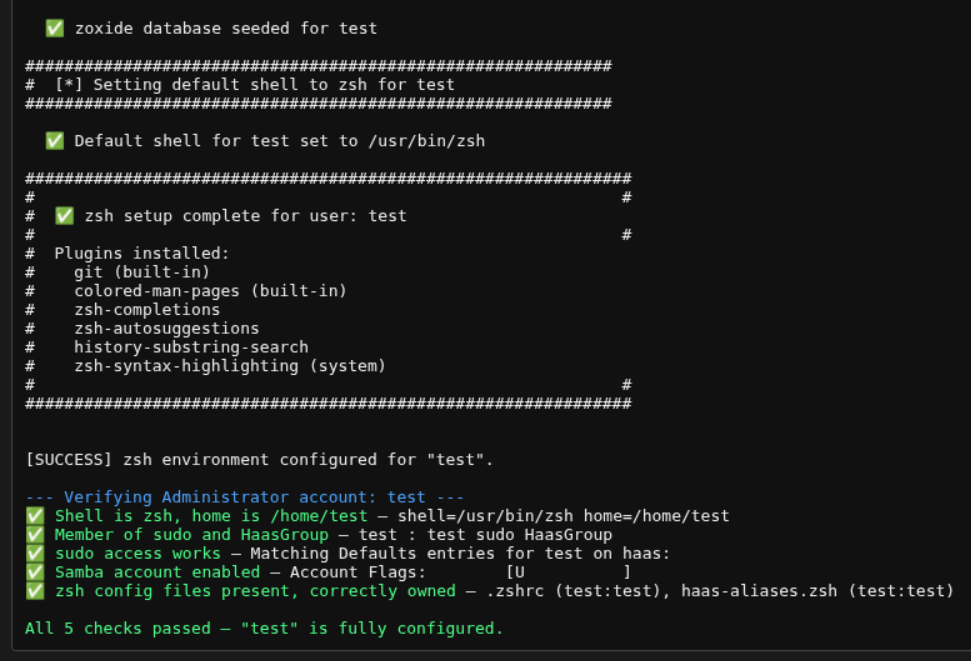
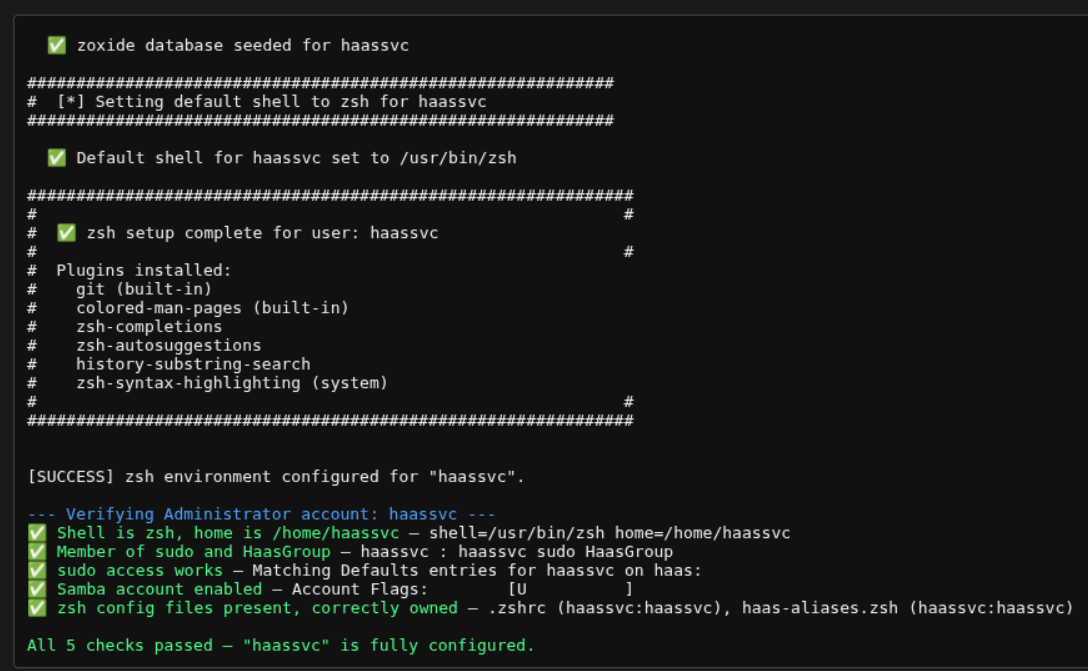
GIt Title: samba.md: Added images

diff --git a/docs/manage_the_appliance/samba.md b/docs/manage_the_appliance/samba.md
@@ -144,6 +144,12 @@ that line.
 net use * \\192.168.10.141\st30 /user:jdoe * /persistent:yes
 ```
 
+----------------------------------------------------------------
+
+![screenshot](./img/samba-drive-mapping.png){ width="500"}
+
+----------------------------------------------------------------
+
 Two details are deliberate:
 
 - The `*` in place of the password makes `net use` prompt for it
@@ -343,11 +349,17 @@ by hand.
 
 ----------------------------------------------------------------
 
-![screenshot](./img/creaet-user-confirm.png)
+![screenshot](./img/samba-create-user-confirm.png){ width="500"}
 
 ----------------------------------------------------------------
 
 4\. Click **Clear Output** instead to discard the form and cancel.
+
+----------------------------------------------------------------
+
+![screenshot](./img/samba-regular-user.png){ width="500"}
+
+----------------------------------------------------------------
 
 For the **Administrator** role, once the account itself is created the
 panel automatically runs `setup_zsh.sh <repo_dir> <username>` for the new
@@ -368,6 +380,12 @@ step is skipped for them.
     the panel automatically re-checks the new account end-to-end and
     prints a PASS/FAIL line for each of five checks directly in the output
     panel:
+
+----------------------------------------------------------------
+
+![screenshot](./img/samba-create-admin-user-confirm.png){ width="500"}
+
+----------------------------------------------------------------
 
     - Shell is `zsh` and home directory is `/home/<username>`
     - Member of both `sudo` and `HaasGroup`
